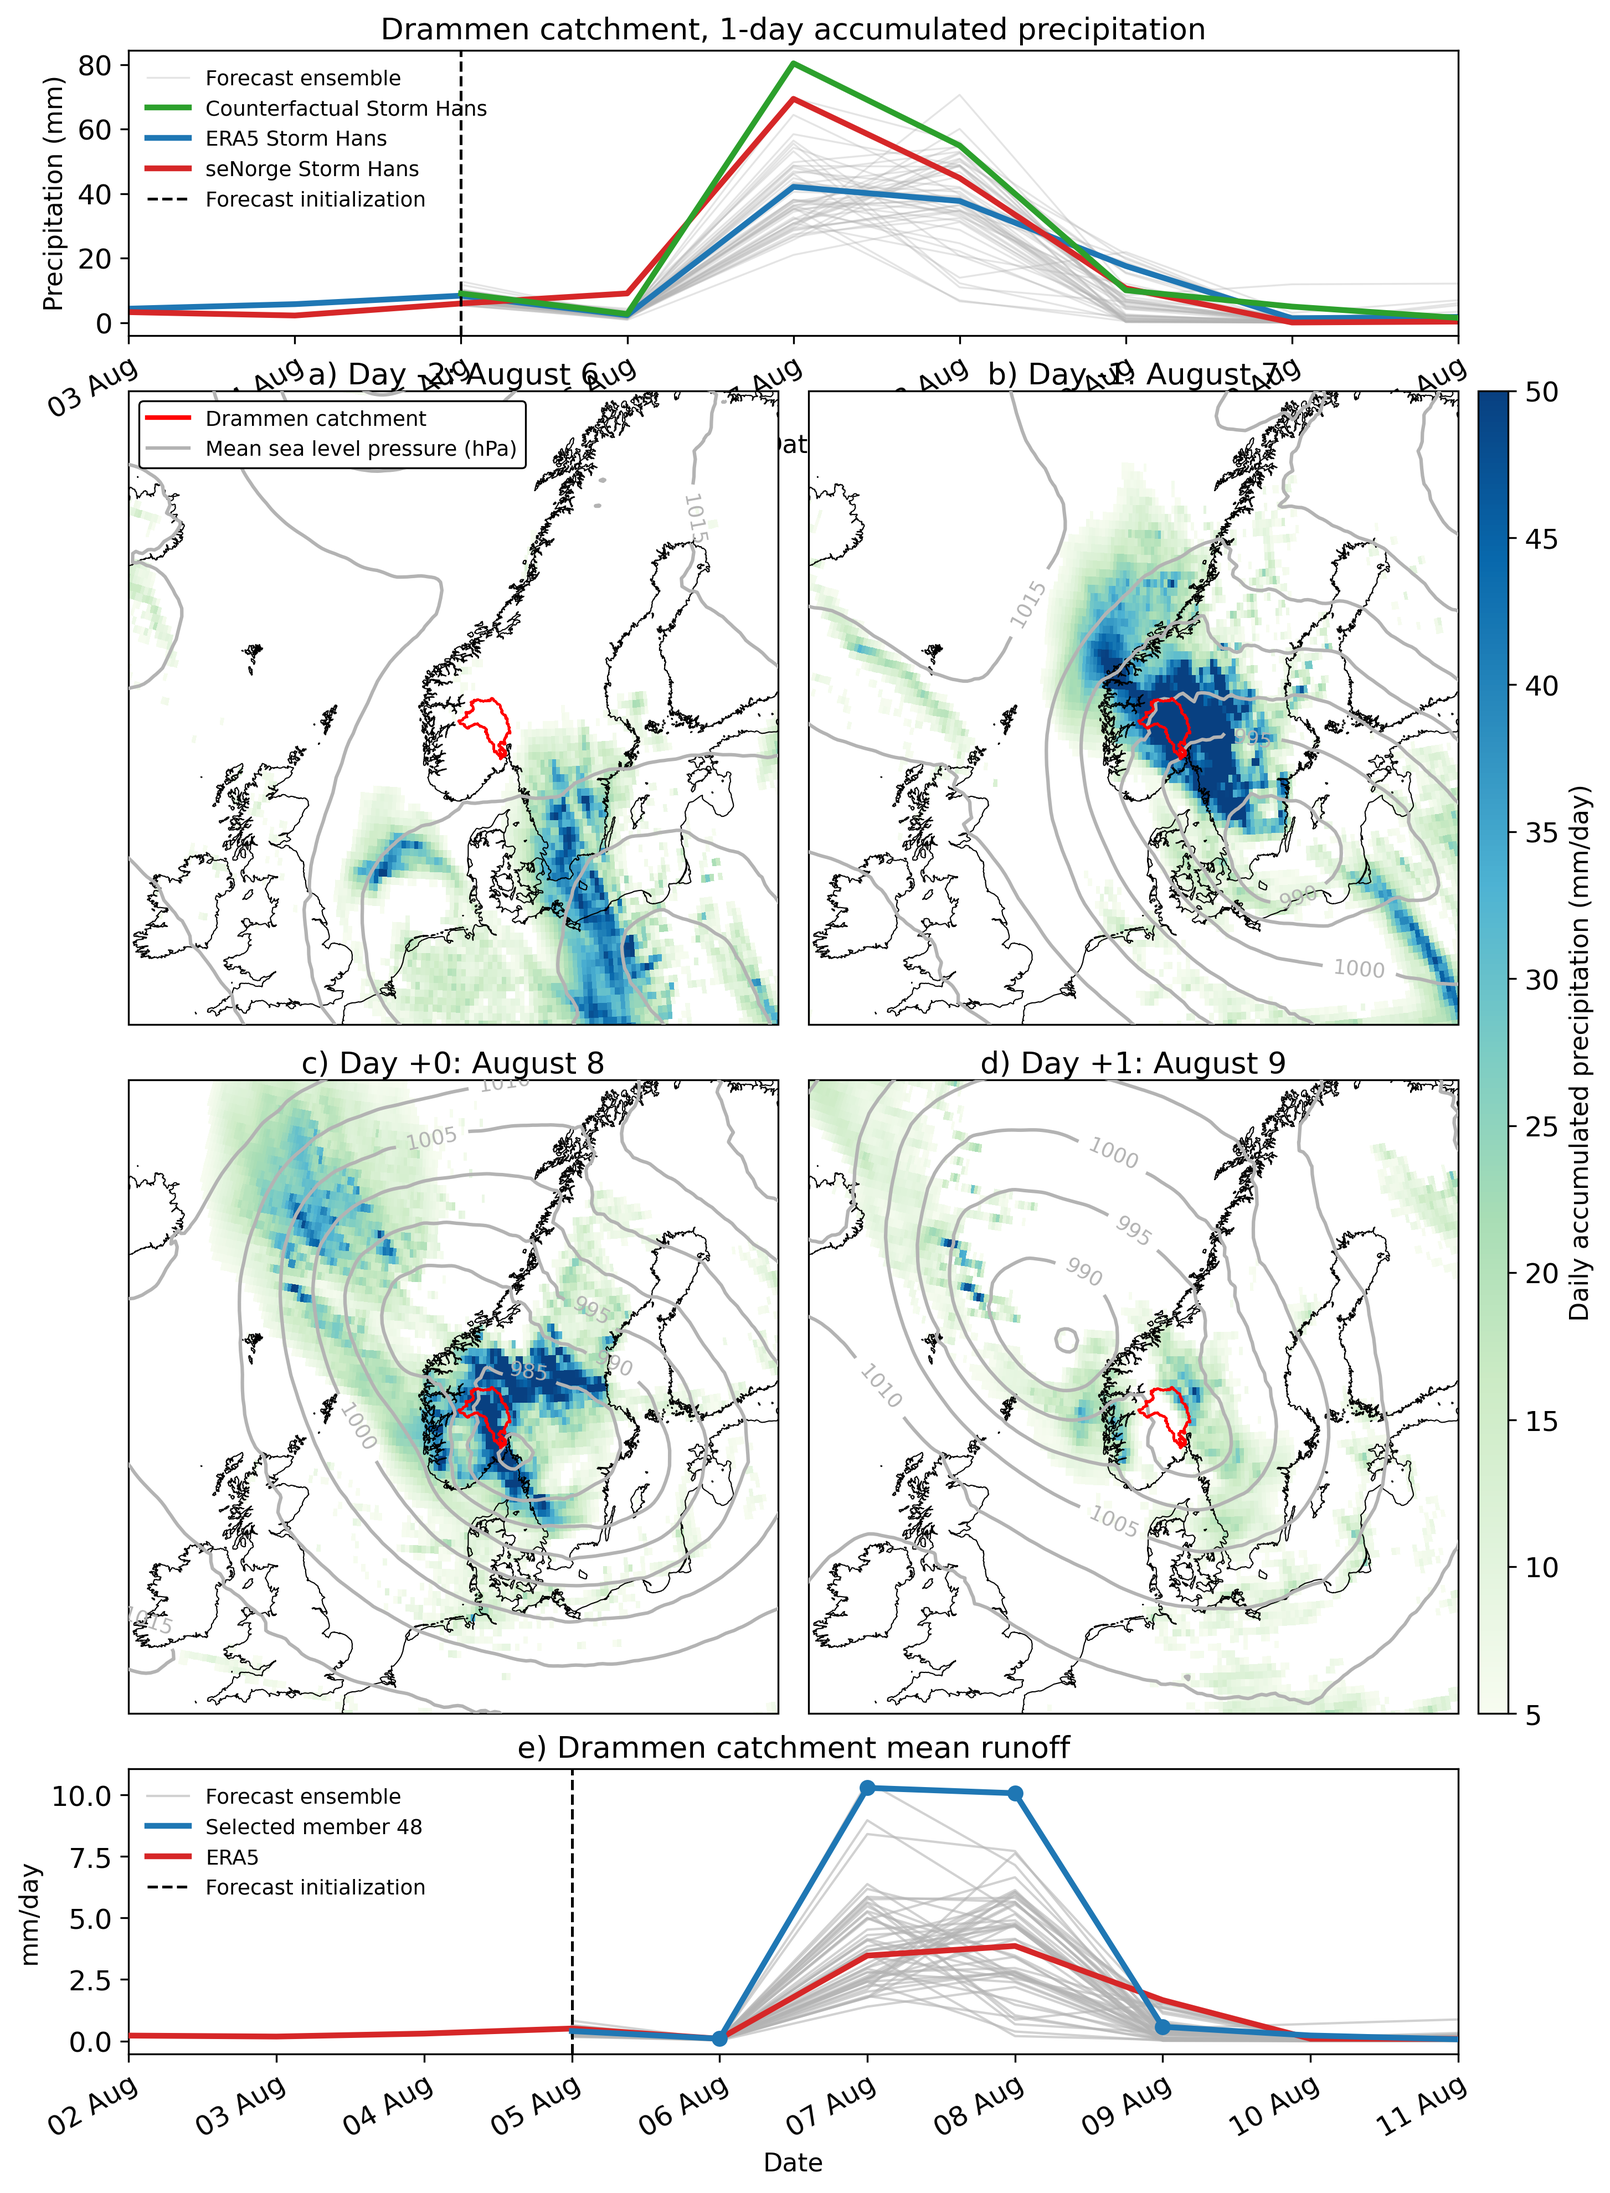
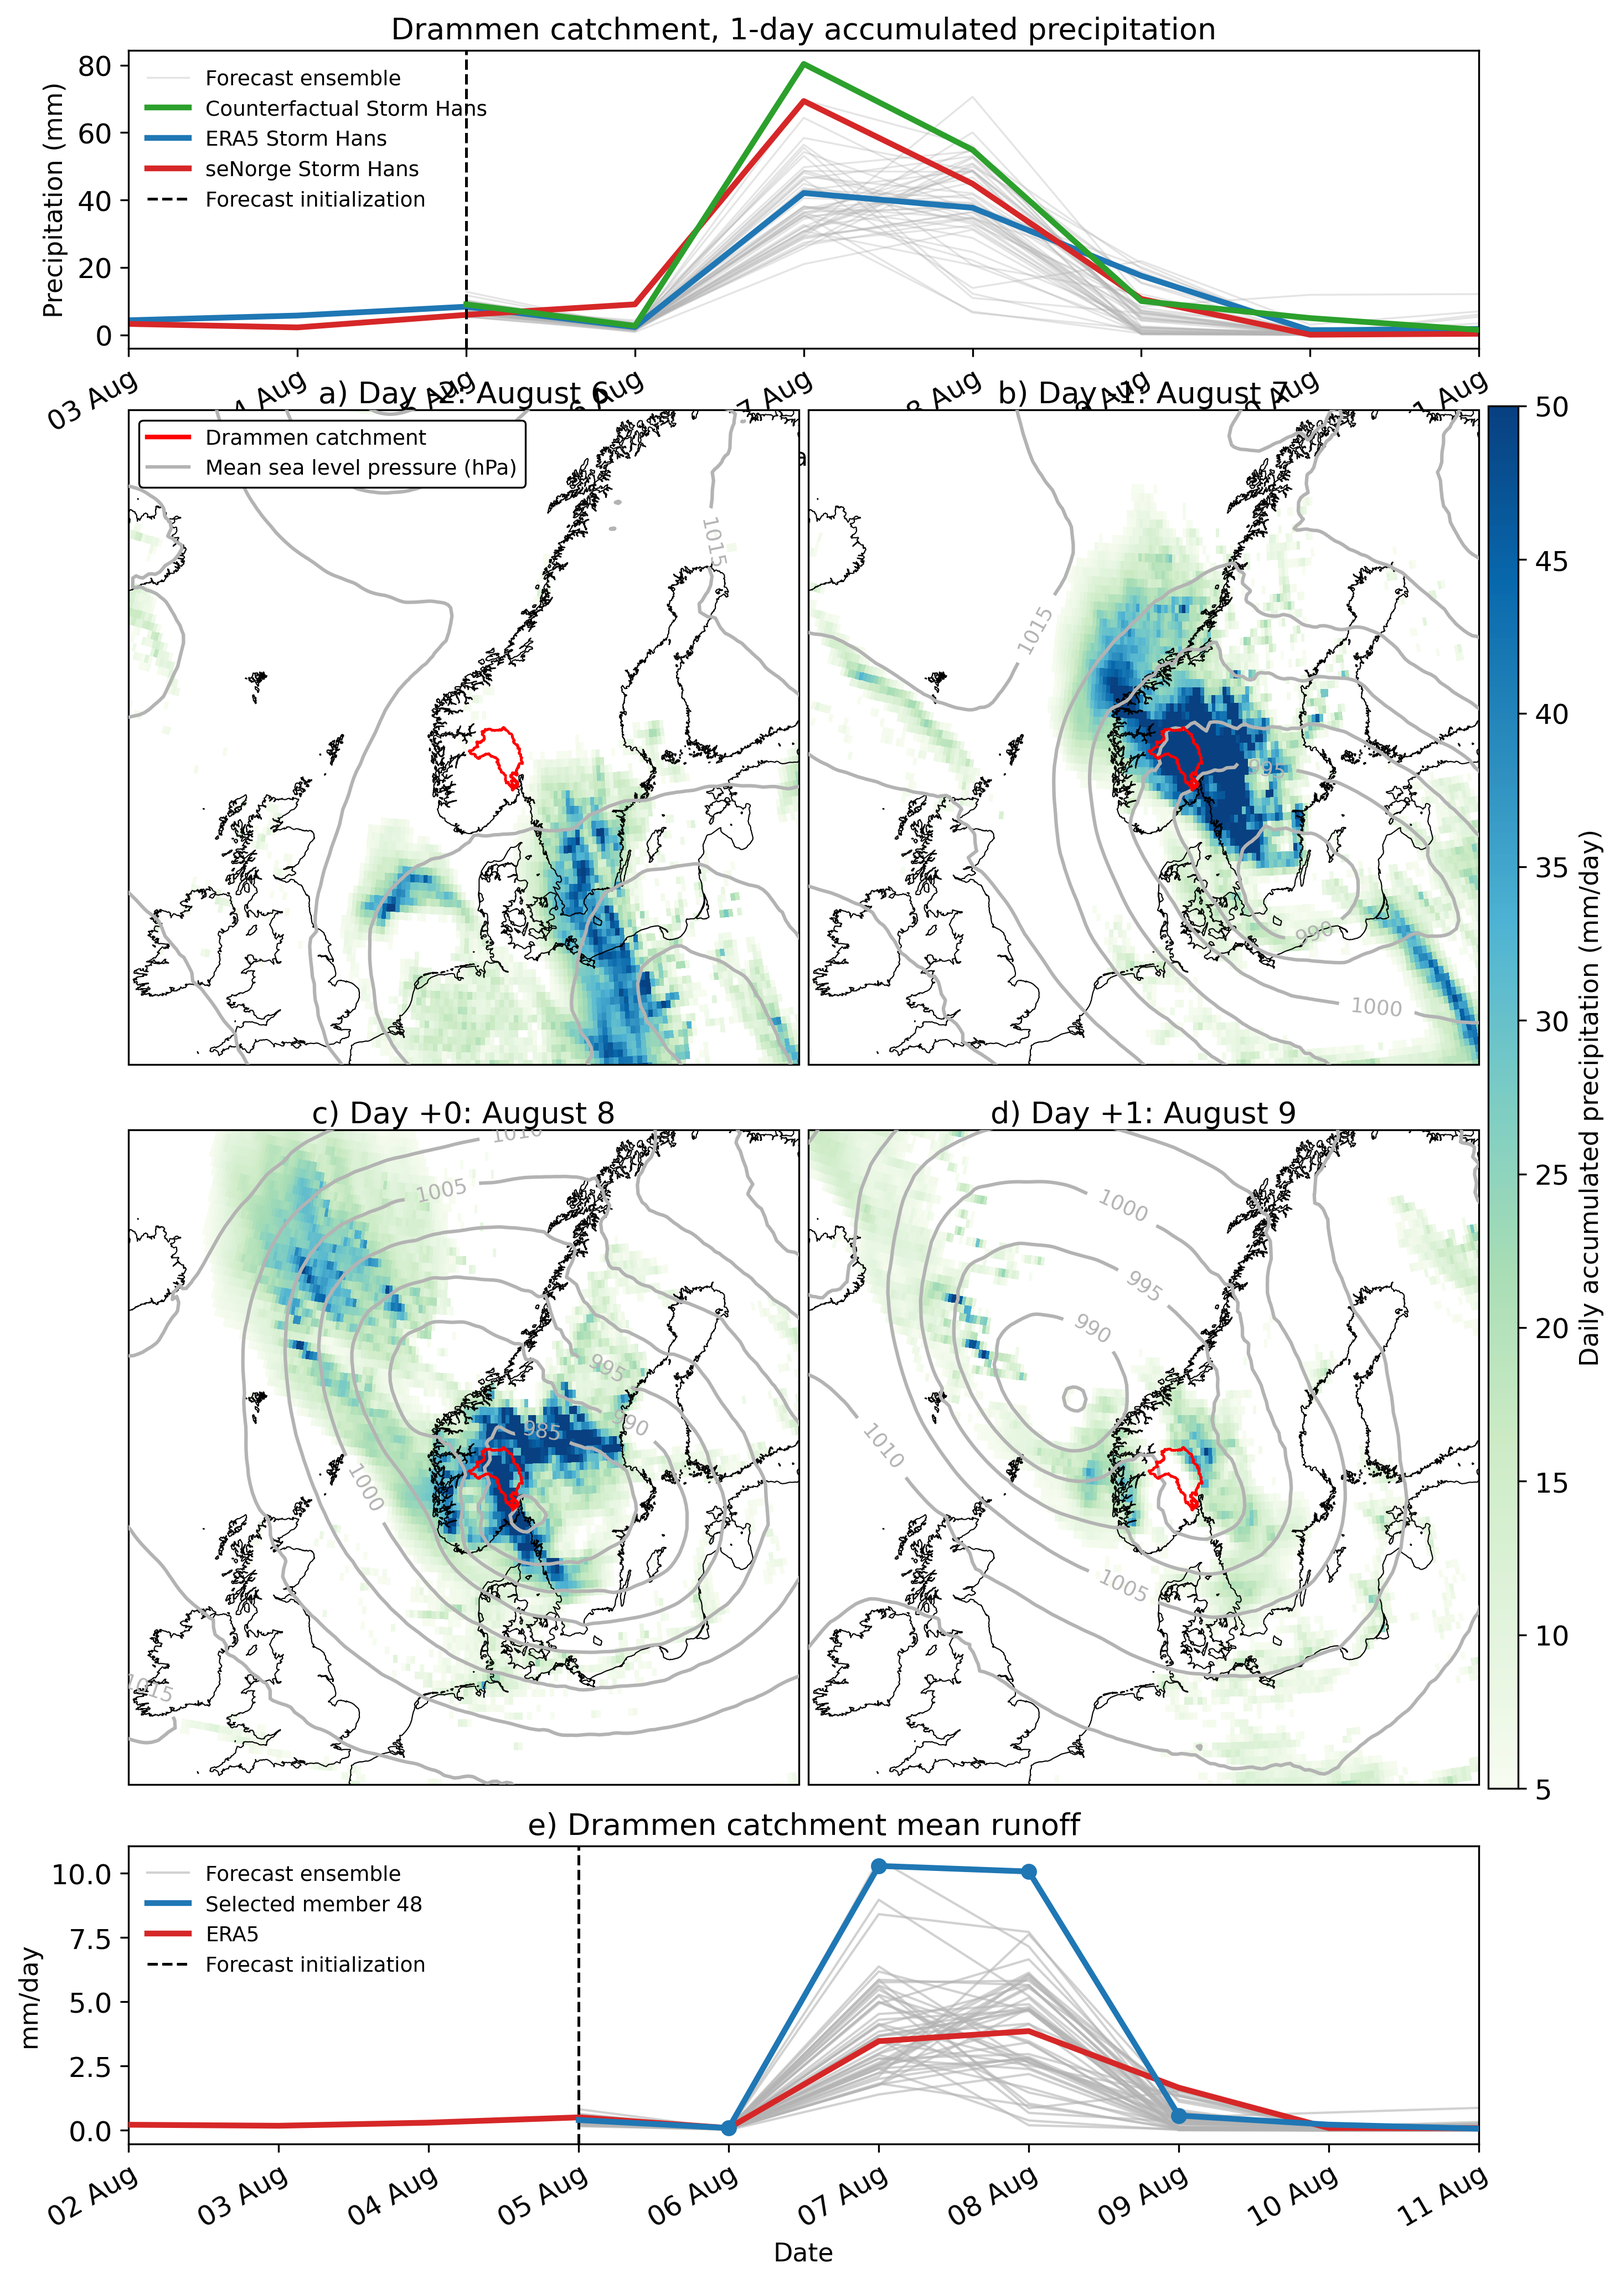
update

Changed region(s): [[0.0, 0.0, 0.9907, 0.9939]]

diff --git a/code/plot/paper_figs/temp.py b/code/plot/paper_figs/temp.py
@@ -154,7 +154,7 @@ OUTPUT_FILENAME = f"{PATH_OUT}fig-temp.png"
 # =============================================================================
 
 FIG_WIDTH_IN = 9.4
-FIG_HEIGHT_IN = 13.4
+FIG_HEIGHT_IN = 14.0
 
 MAP_EXTENT = [-10, 25, 50, 70]
 MAP_WSPACE = 0.02
